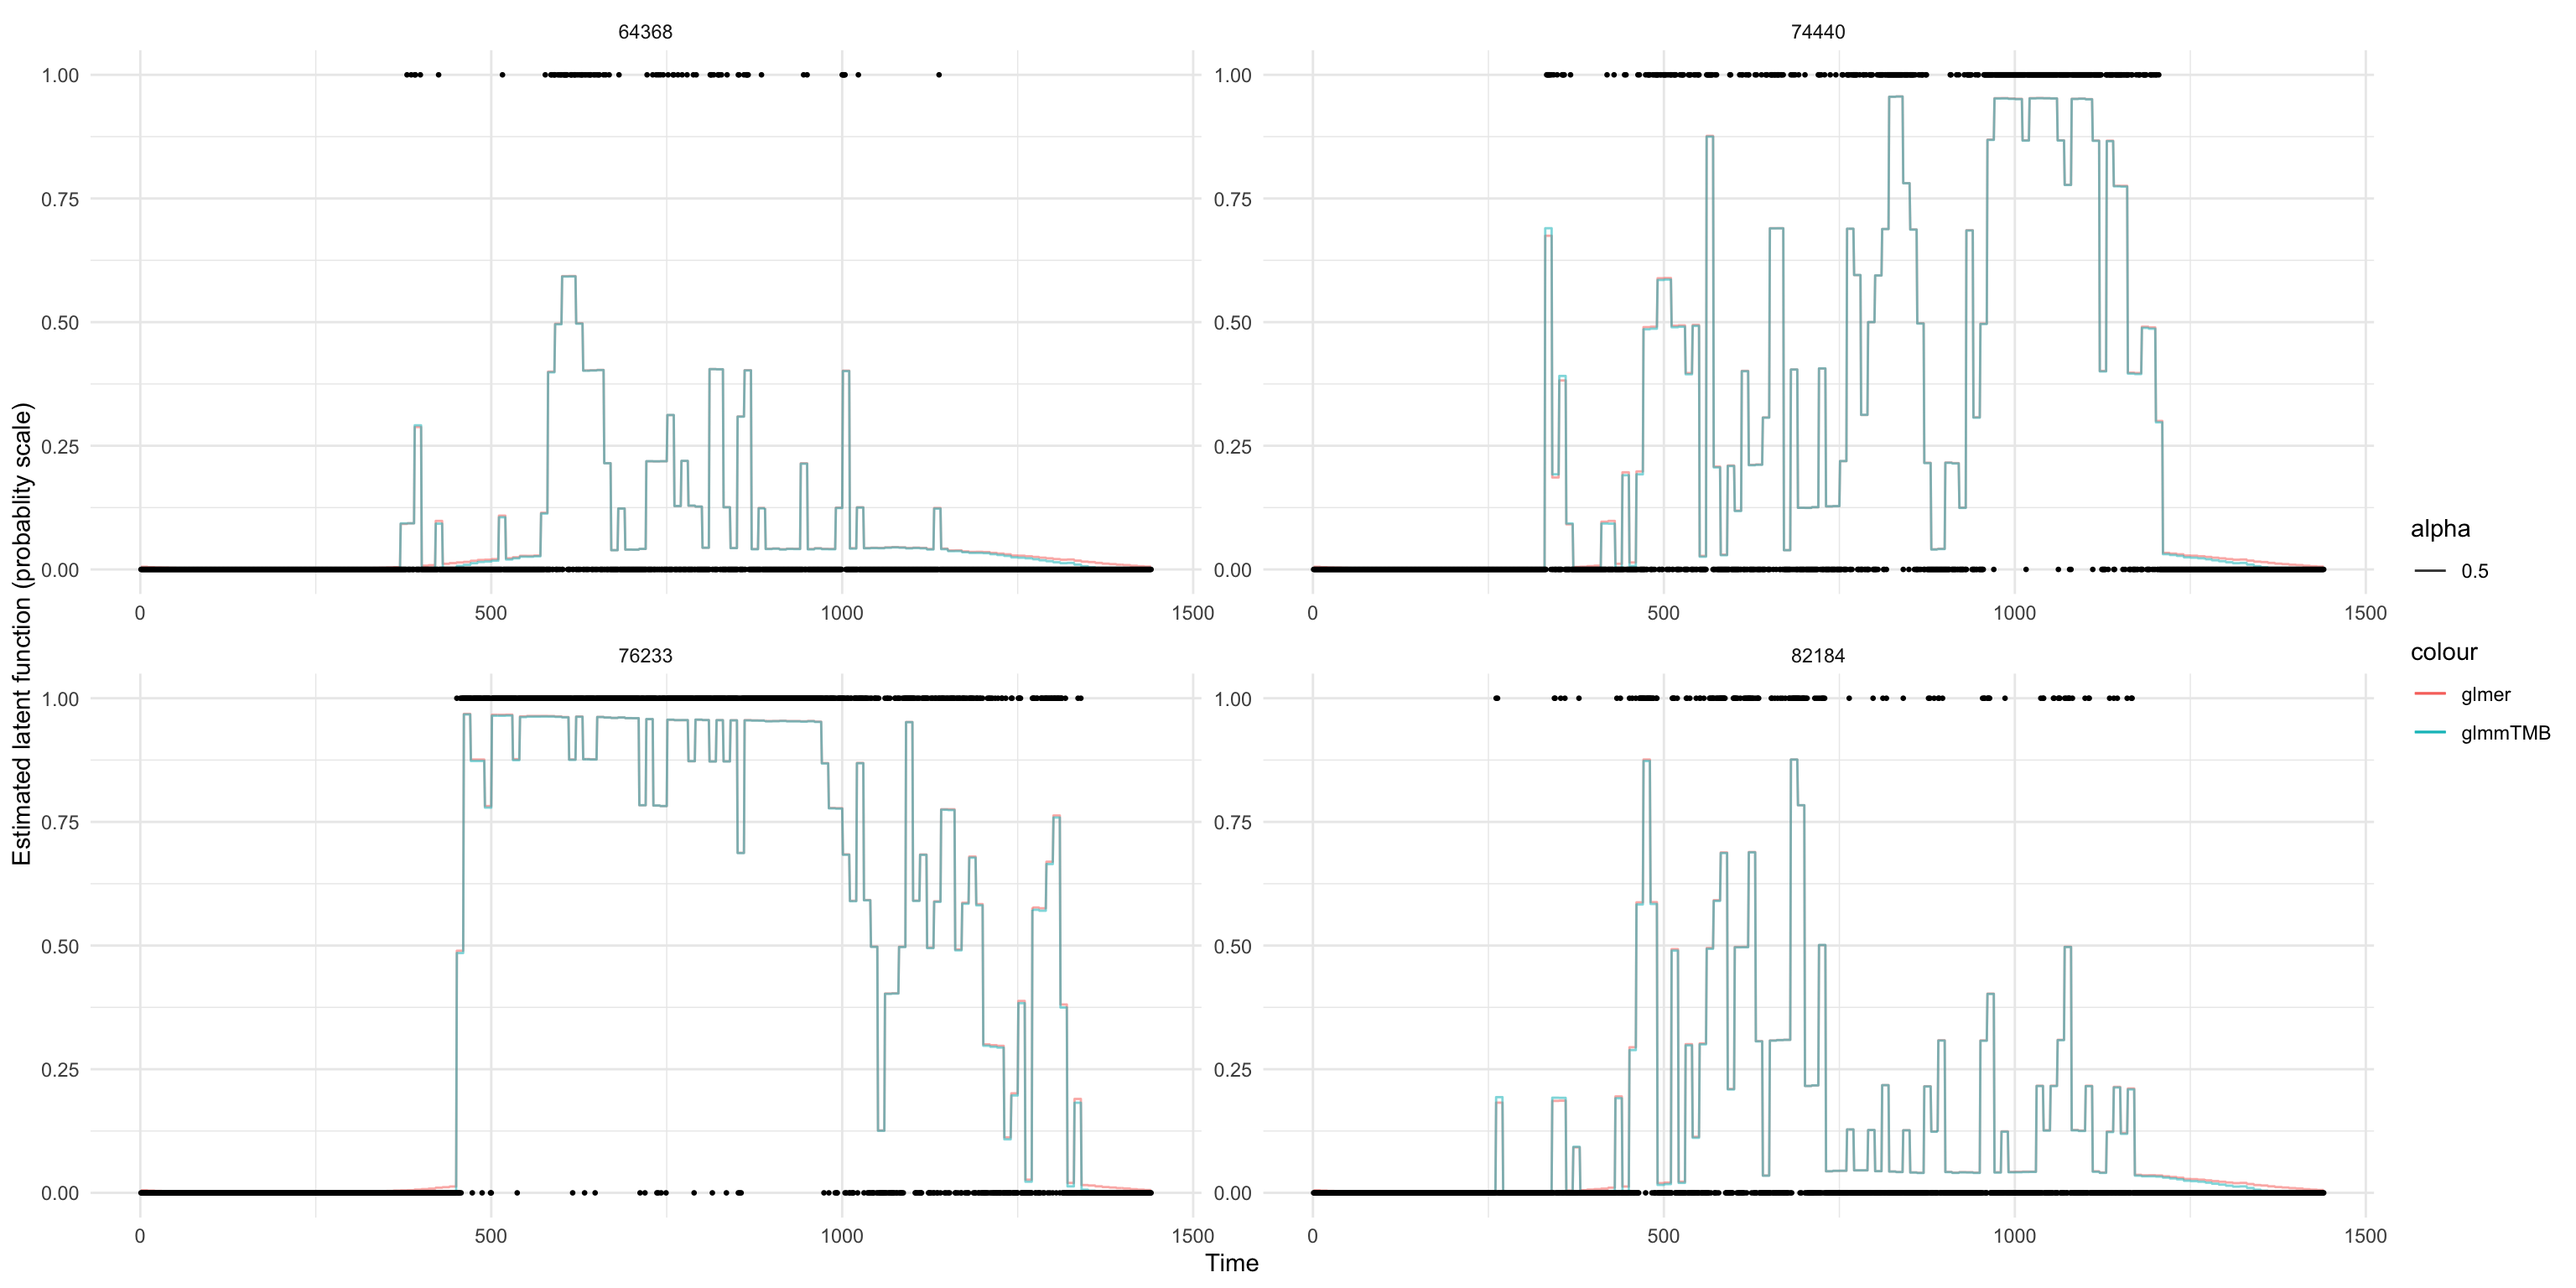
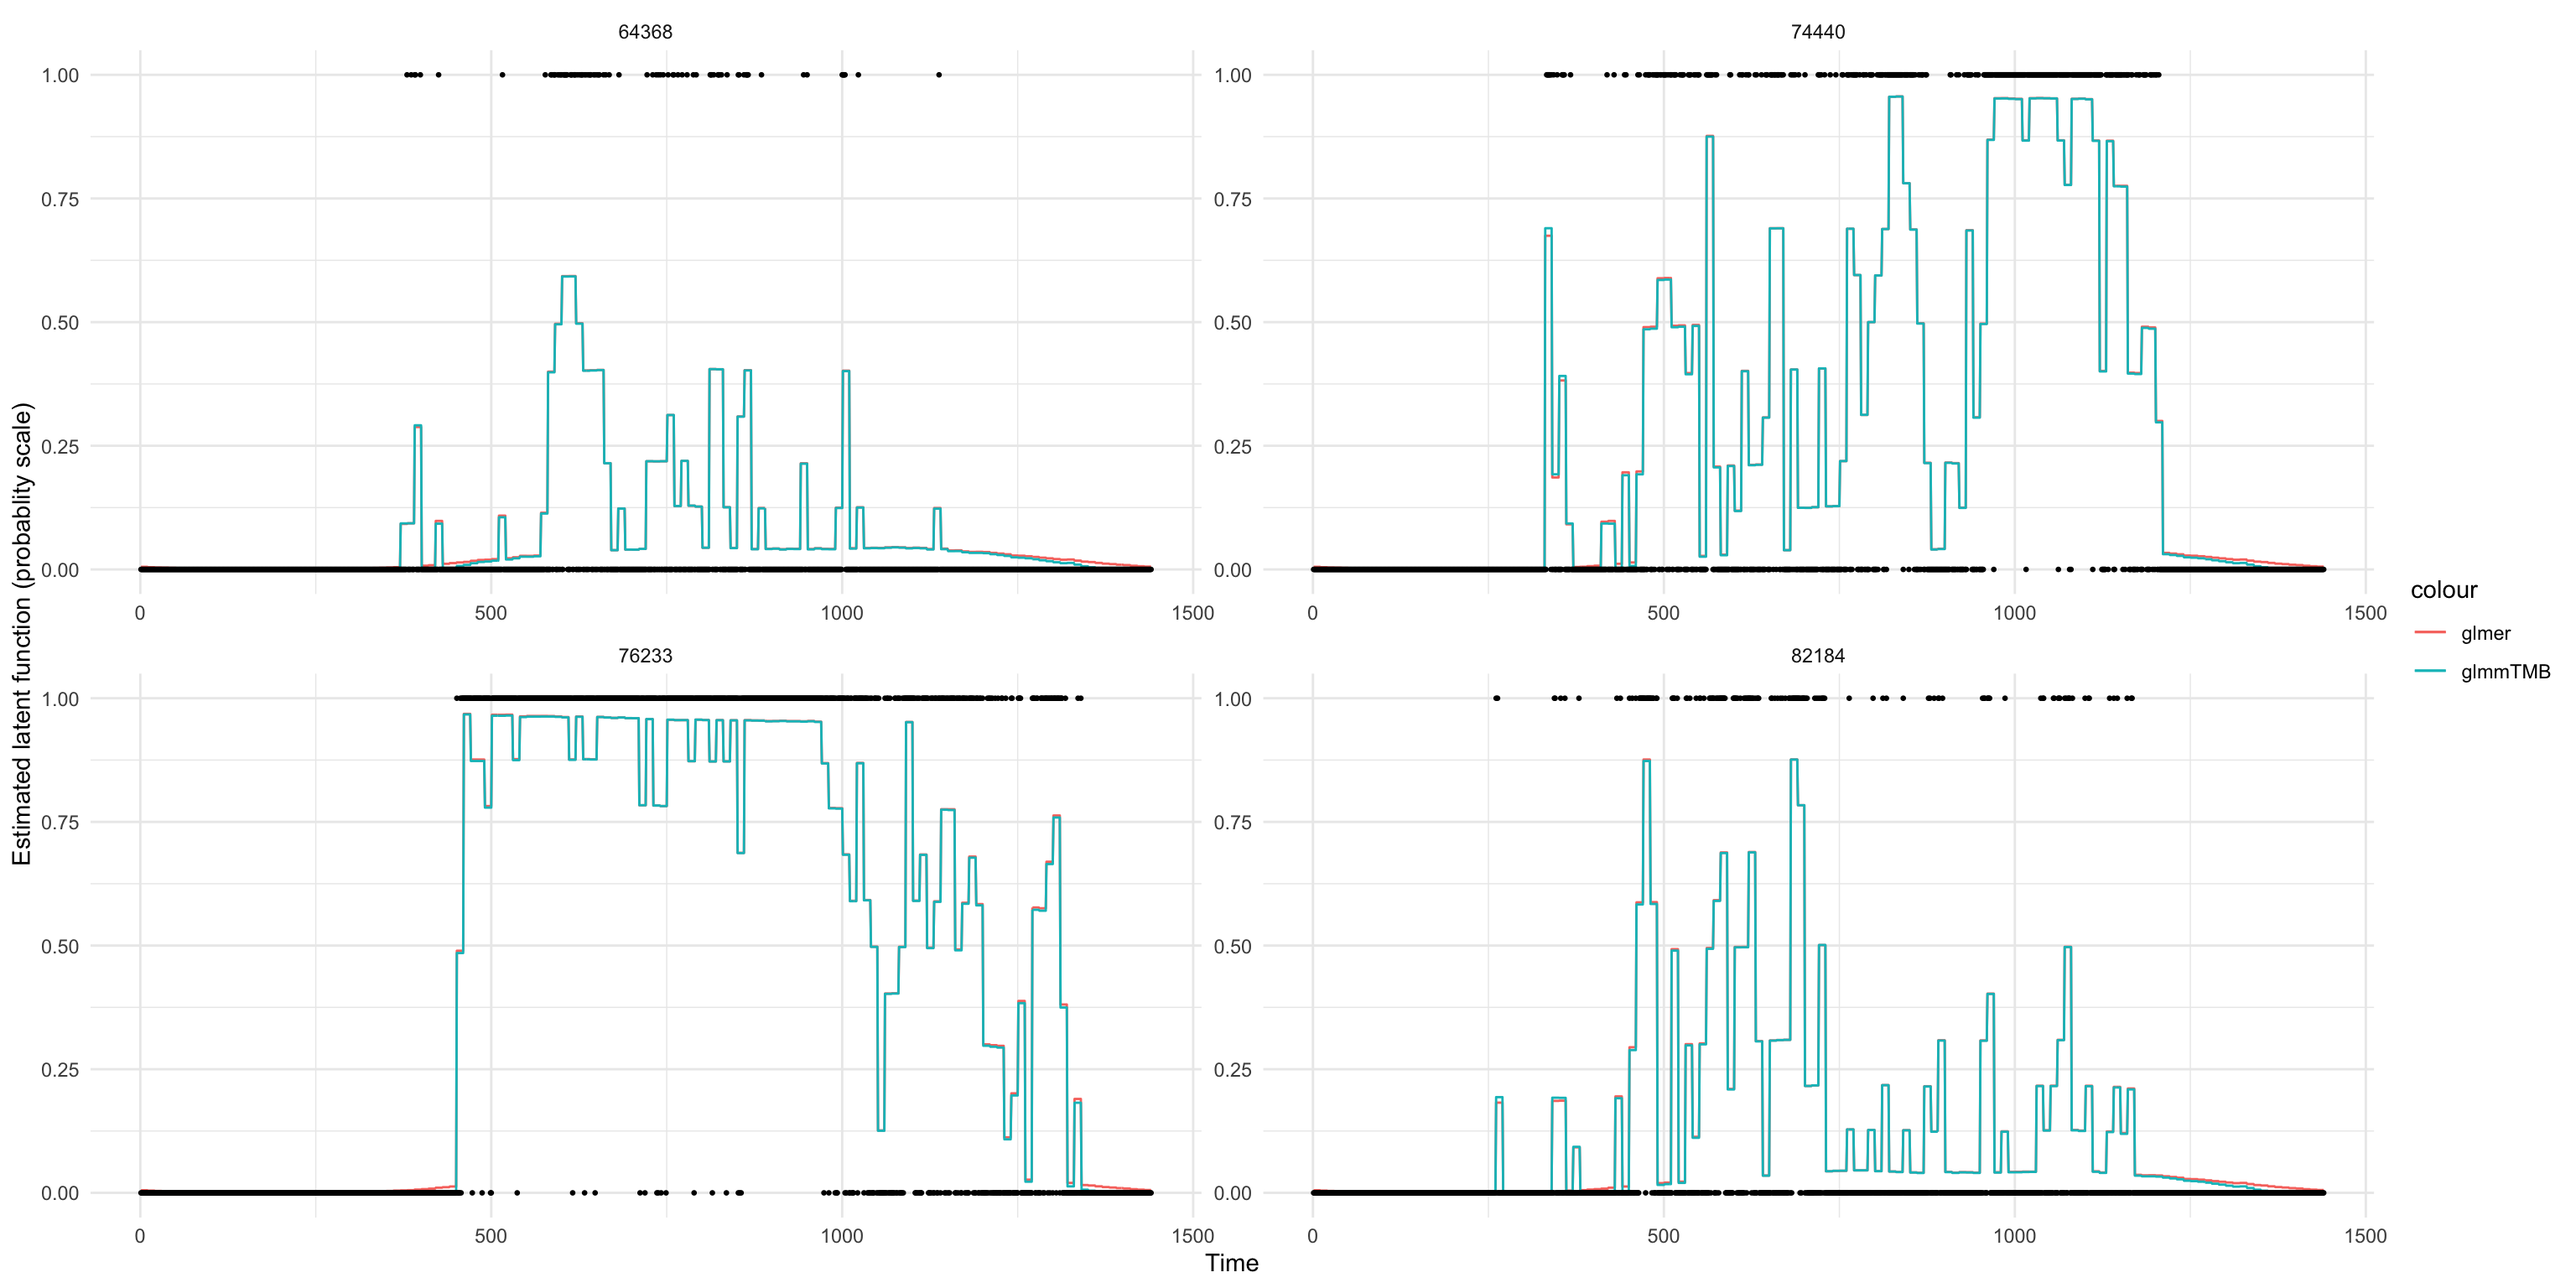
some format

diff --git a/Docs/ProgressReport.html b/Docs/ProgressReport.html
@@ -380,7 +380,10 @@ using glmer.</p>
 # to avoid near-unidentifiability issues, using PIRLS maximization with nAGQ = 0
 
 # fit local models
+t1 &lt;- Sys.time()
 df_est_latent &lt;- lapply(df_bin_lst, function(x){pred_latent(x, n_node = 0)}) 
+t2 &lt;- Sys.time()
+t_pirls &lt;- t2-t1
 df_est_latent &lt;- bind_rows(df_est_latent)
 
 # keep midpoint values
@@ -416,8 +419,8 @@ glmmTMB</h4>
 <p>The default optimizer of glmmTMB is nlminb (quasi-Newton BFGS),
 whereas glmer uses bobyaqa (nAGQ=0) or Nelder_Mead (nAGQ&gt;0)?</p>
 <p>Let’s first try to re-do the who local GLMM step using glmmTMB. Looks
-like no numeric issue occurred. It takes slightly longer time than PIRLS
-in glmer</p>
+like no numeric issue occurred. It takes slightly shorter time (about 1
+minute) than PIRLS in glmer</p>
 <pre class="r"><code>library(glmmTMB)
 # re-fit local GLMM and check numeric issues
 try_fit_lst&lt;-list()
@@ -435,10 +438,11 @@ t_tmb &lt;- t2-t1
 # population mean
 mean_tmb &lt;- sapply(try_fit_lst, function(x){coef(summary((x)))$cond[1]})</code></pre>
 <ul>
-<li>Time: 3.21070526838303 minutes</li>
+<li>Time: 3.21 minutes</li>
 <li>Mean/Intercept function: It looks like glmmTMB estimates lie right
-between PIRLS and AGQ! It takes slightly shorter time than PIRLS and
-mean function shoots more downward, not as bad as AGQ though.</li>
+between PIRLS and AGQ! It takes slightly shorter time than PIRLS (4.15
+minutes) and mean function shoots more downward, not as bad as AGQ
+though.</li>
 </ul>
 <pre class="r"><code>ggarrange(
 df_est_local_marg %&gt;% bind_rows() %&gt;%
@@ -482,8 +486,8 @@ df_est_latent_tmb &lt;- df_est_latent_tmb %&gt;%
             by = c(&quot;id&quot;, &quot;bin&quot;)) %&gt;%
   mutate_at(vars(eta_hat, eta_hat_tmb), function(x){exp(x)/(1+exp(x))}) %&gt;% 
   ggplot()+
-  geom_line(aes(x=sind, y=eta_hat, col = &quot;glmer&quot;, alpha = 0.5))+
-  geom_line(aes(x=sind, y=eta_hat_tmb, col = &quot;glmmTMB&quot;, alpha = 0.5))+
+  geom_line(aes(x=sind, y=eta_hat, col = &quot;glmer&quot;))+
+  geom_line(aes(x=sind, y=eta_hat_tmb, col = &quot;glmmTMB&quot;))+
   geom_point(aes(x=sind, y = Y), size = 0.5)+
   facet_wrap(~id, scales = &quot;free&quot;)+
   labs(x = &quot;Time&quot;, y = &quot;Estimated latent function (probablity scale)&quot;)</code></pre>
@@ -497,13 +501,13 @@ df %&gt;%
   left_join(df_est_latent_tmb %&gt;% select(id, bin, eta_hat) %&gt;% rename(eta_hat_tmb=eta_hat), 
             by = c(&quot;id&quot;, &quot;bin&quot;)) %&gt;%
   ggplot()+
-  geom_line(aes(x=bin, y=eta_hat, col = &quot;glmer&quot;, alpha = 0.5))+
-  geom_line(aes(x=bin, y=eta_hat_tmb, col = &quot;glmmTMB&quot;, alpha = 0.5))+
+  geom_line(aes(x=bin, y=eta_hat, col = &quot;glmer&quot;))+
+  geom_line(aes(x=bin, y=eta_hat_tmb, col = &quot;glmmTMB&quot;))+
   geom_point(aes(x=bin, y = num), size = 0.5)+
   facet_wrap(~id, scales = &quot;free&quot;)+
   labs(x = &quot;Time&quot;, y = &quot;Estimated latent function&quot;)</code></pre>
 <p><img src="ProgressReport_files/figure-html/unnamed-chunk-15-1.png" width="1536" /></p>
-<p>So it looks like glmmTMB still overshoot downwards. Between the two
+<p>So it looks like glmmTMB still overshoots downwards. Between the two
 methods, the mid-day part (active part for most people) seems to be very
 similar. Difference lies mostly at both ends, with consecutive inactive
 minutes.</p>
@@ -540,9 +544,9 @@ K &lt;- 4</code></pre>
 <ul>
 <li>Population mean function</li>
 </ul>
-<p>Hmm…FPCA seems to shoot the population mean downward in both methods,
-more so for glmmTMB. It looks like more rounds of model would make the
-population mean function more variable. Does that make sense?</p>
+<p>Hmm…Compared to conditional intercept, FPCA seems to shoot the
+population mean downward in PIRLS but upward for glmmTMB. Does that make
+sense?</p>
 <pre class="r"><code># population mean
 par(mfrow=c(1, 2))
 plot(mid, fpca_mod$mu, type = &quot;l&quot;, xlab = &quot;bin&quot;, ylab = &quot;mean&quot;, main = &quot;glmer&quot;,
@@ -724,7 +728,7 @@ t2 &lt;- Sys.time()
 t_interp &lt;- t2-t1</code></pre>
 <ul>
 <li><p>3.25 minutes spent on fitting local GLMMs, 3.21 seconds on FPCA
-model, 19.79 minutes on out-of-sample prediction, 1.43 minutes on
+model, 19.79 minutes on out-of-sample prediction, 1.45 minutes on
 interpolation to the original grid</p></li>
 <li><p>Let’s look at four subjects as an example:</p></li>
 </ul>
@@ -754,7 +758,7 @@ any different. Also, there are a lot of other methods to fill in the
 gaps, such as projection.</li>
 <li>For linear interpolation, I set the edges to be the closest data
 extreme.</li>
-<li>The interpolation itself spent 1.43 minutes.</li>
+<li>The interpolation itself spent 1.45 minutes.</li>
 </ul>
 <pre class="r"><code># with interpolation
 df_test_full%&gt;% 
@@ -1042,7 +1046,7 @@ Time on prediction
 </th>
 <th style="border-bottom:hidden;padding-bottom:0; padding-left:3px;padding-right:3px;text-align: center; " colspan="3">
 <div style="border-bottom: 1px solid #ddd; padding-bottom: 5px; ">
-21.22
+21.24
 </div>
 </th>
 <th style="border-bottom:hidden;padding-bottom:0; padding-left:3px;padding-right:3px;text-align: center; " colspan="3">
@@ -1064,7 +1068,7 @@ Total time
 </th>
 <th style="border-bottom:hidden;padding-bottom:0; padding-left:3px;padding-right:3px;text-align: center; " colspan="3">
 <div style="border-bottom: 1px solid #ddd; padding-bottom: 5px; ">
-24.52
+24.54
 </div>
 </th>
 <th style="border-bottom:hidden;padding-bottom:0; padding-left:3px;padding-right:3px;text-align: center; " colspan="3">
@@ -1198,7 +1202,7 @@ Total time
 <ul>
 <li>fGFPCA does not always have higher AUC, but definitely most of the
 time.</li>
-<li>In fact there are two scenarios where GLMMadaptive overperforms
+<li>In fact there are two scenarios where GLMMadaptive outperforms
 fGFPCA slightly: 1) given 9am to predict 1-5pm; and 2) given 1pm and
 predict 5-9pm. Both of them have a 4-hour interval apart from the
 maximum observation time and and prediction window. Could it have
@@ -1219,17 +1223,17 @@ too many points lumped together!</li>
 <h2><span class="header-section-number">2.4</span> Discussion</h2>
 <ul>
 <li>What would be the reference method to compare our performance to?
-Original GLMMadaptvie perhaps is feasible on teh entire dataset. But
+Original GLMMadaptvie perhaps is feasible on the entire dataset. But
 what should we use if we wanna do sub-sample comparison? Should we even
 do that for this data application (or simulation alone)?</li>
-<li>There are still three folks with numeric problem! Shall we extend
-the observation track even more? I suspect that may cause still the same
-issue just on different subjects.</li>
-<li>Is interplation really necessary? It does not improve performance
+<li>There are still three participants with numeric problem! Shall we
+extend the observation track even more? I suspect that may cause still
+the same issue just on different subjects.</li>
+<li>Is interpolation really necessary? It does not improve performance
 very much but consumes time. Also, should I try more sophisticated
 methods for grid extension?</li>
 <li>Should I calculate subject-wise AUC and average them? But some
-subjects are all zero within the predictio window, making AUC for this
+subjects are all zero within the prediction window, making AUC for this
 single subjects impossible to calculate…</li>
 </ul>
 </div>
